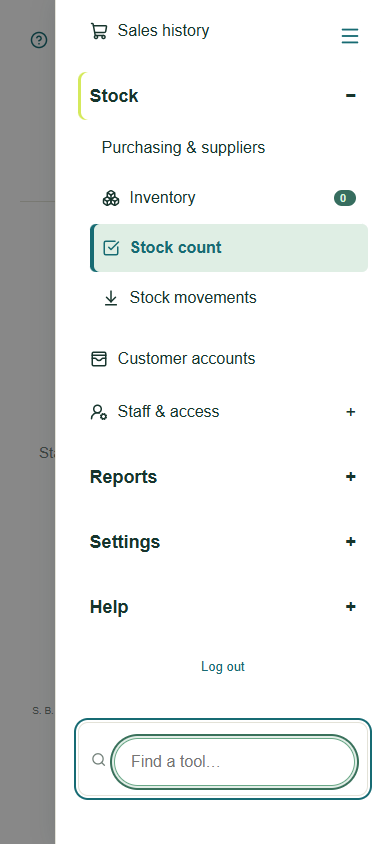
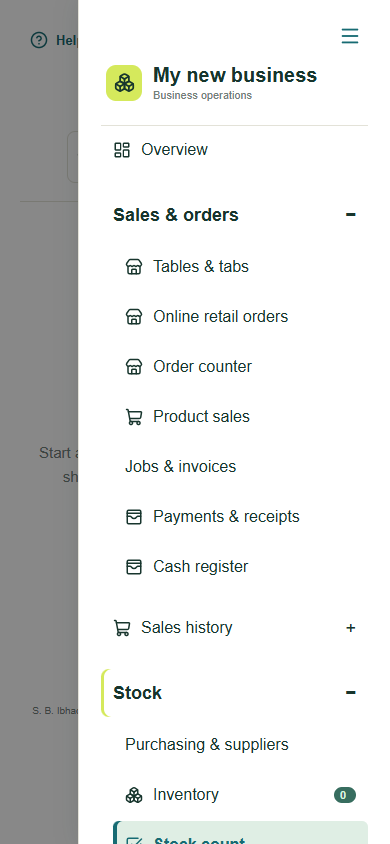
Refactor 3, Mobile navbar behavior corrected

diff --git a/src/main.tsx b/src/main.tsx
@@ -4,6 +4,7 @@ import { AppIntroduction } from './AppIntroduction'
 import { ListSort, type ListOrder } from './ListSort'
 import { NavigationGroup } from './NavigationGroup'
 import { ToolSearch } from './ToolSearch'
+import { SyncStatusIndicator, syncErrorMessage } from './SyncStatusIndicator'
 import { ReadingControls } from './ReadingControls'
 import { ReportCharts, type ReportChartData } from './ReportCharts'
 import { BrandAppearance } from './BrandAppearance'
@@ -230,7 +231,7 @@ type SaleRecord = { id: string; total: number; paymentMethod: string; paymentRef
 type SaleItemVoid = { id: string; orderId: string; productId: string; productName: string; quantity: number; unitPrice: number; reason: string; staffId: string; staffName: string; createdAt: string }
 
 type Movement = { id: string; productName: string; sku: string; quantity: number; reason: string; createdAt: string }
-type SyncStatus = { configured: boolean; pending: number; conflicts?: number; lastError: string; existingBusiness?: boolean }
+type SyncStatus = { configured: boolean; pending: number; pendingSettings?: number; conflicts?: number; lastError: string; existingBusiness?: boolean }
 type StaffUser = { id: string; name: string; email: string; username?: string; role: 'owner' | 'admin' | 'cashier'; permissions?:Record<string,boolean>|null; operationalAccess?: boolean; createdAt: string }
 type Reports = { charts?: ReportChartData; costWarnings?: { incomplete: boolean; zeroCostSaleLines: number; missingRecipes: string[]; uncostedIngredients: number; uncostedMaterials?: number }; reportingTimeZone?: string; daily: { total: number; count: number }; weekly: { total: number; count: number }; monthly: { total: number; count: number }; inventory: { value: number; products: number; lowStock: number }; profit: { revenue: number; cost: number; expenses: number; amount: number } }
 type Expense = { id: string; category: string; description: string; amount: number; incurredAt: string; staffId?: string; staffName?: string }
@@ -328,14 +329,6 @@ function App() {
   }, [])
   const {open:mobileMenuOpen,setOpen:setMobileMenuOpen,menu:mobileMenuRef,toggle:mobileMenuToggleRef} = usePortalMenu(true)
   useEffect(()=>{const media=window.matchMedia('(min-width:1024px)');const update=()=>{setDesktopLayout(media.matches);if(media.matches)setMobileMenuOpen(false)};media.addEventListener('change',update);return()=>media.removeEventListener('change',update)},[])
-  useEffect(() => {
-    if (!mobileMenuOpen) return
-    const closeOutside = (event: PointerEvent) => {
-      if (event.target instanceof Node && !mobileMenuRef.current?.contains(event.target) && !mobileMenuToggleRef.current?.contains(event.target)) setMobileMenuOpen(false)
-    }
-    document.addEventListener('pointerdown', closeOutside, true)
-    return () => document.removeEventListener('pointerdown', closeOutside, true)
-  }, [mobileMenuOpen])
   const [deviceSetupKind, setDeviceSetupKind] = useState<DeviceKind | undefined>()
   const [settingsTab, setSettingsTab] = useState<'business' | 'shop' | 'sales' | 'receipts' | 'devices' | 'food' | 'restaurant'>('business')
   const [detailsProduct, setDetailsProduct] = useState<Product | null>(null)
@@ -868,7 +861,7 @@ function App() {
       const productsResponse = await fetch('/api/products', { headers: authHeaders })
       if (productsResponse.ok) setProducts((await productsResponse.json()).products)
     } catch (error) {
-      setSyncFeedback(`Sync failed: ${error instanceof Error ? error.message : 'Could not reach the cloud.'} Check the queued count and retry.`)
+      setSyncFeedback(syncErrorMessage(error instanceof Error ? error.message : 'Could not reach cloud sync. Changes remain saved on this device.'))
     } finally { setSyncing(false) }
   }
   async function pullLatest() {
@@ -1937,7 +1930,7 @@ function App() {
     {(isNativeMobile() || isBrowserPwa()) && <div className={refreshingView ? 'mobile-pull-refresh refreshing' : 'mobile-pull-refresh'} style={{ transform: `translate(-50%, ${refreshingView ? 8 : mobilePullDistance - 56}px)` }}><RefreshCw size={17} className={refreshingView ? 'spin' : ''} /><span>{refreshingView ? 'Refreshing…' : mobilePullDistance >= 64 ? 'Release to refresh' : 'Pull to refresh'}</span></div>}
     <button ref={mobileMenuToggleRef} className="mobile-nav-toggle" type="button" aria-controls="business-navigation" aria-label={mobileMenuOpen ? 'Close navigation menu' : 'Open navigation menu'} aria-expanded={mobileMenuOpen} onClick={() => setMobileMenuOpen(open => !open)}><Menu size={22} /></button>
     {mobileMenuOpen && <button className="mobile-nav-backdrop" type="button" aria-label="Close navigation menu" onClick={() => setMobileMenuOpen(false)} />}
-    <aside ref={mobileMenuRef} id="business-navigation" inert={!mobileMenuOpen&&!desktopLayout} role={mobileMenuOpen&&!desktopLayout?'dialog':undefined} aria-modal={mobileMenuOpen&&!desktopLayout?true:undefined} aria-label="Business navigation" className={`sidebar${mobileMenuOpen ? ' mobile-menu-open' : ''}`}>
+    <aside ref={mobileMenuRef} tabIndex={-1} id="business-navigation" inert={!mobileMenuOpen&&!desktopLayout} role={mobileMenuOpen&&!desktopLayout?'dialog':undefined} aria-modal={mobileMenuOpen&&!desktopLayout?true:undefined} aria-label="Business navigation" className={`sidebar${mobileMenuOpen ? ' mobile-menu-open' : ''}`}>
       <div className="brand"><div className="brand-mark">{logoData ? <img src={logoData} alt="" className="brand-logo" /> : <Boxes size={21} />}</div><div><strong>{appName}</strong><span>Business operations</span></div></div>
       <ToolSearch tools={[{label:'Overview',screen:'Overview'}, ...(workspace.productSales?[{label:'Product sales',screen:'POS'}]:[]), ...(workspace.oil?[{label:'Oil sales',screen:'Oil'}]:[]), ...(workspace.payments?[{label:'Payments & receipts',screen:'Payments'}]:[]), ...(workspace.fastFood?[{label:'Order counter',screen:'Counter'}]:[]), ...(workspace.restaurant?[{label:'Tables & tabs',screen:'Restaurant'}]:[]), ...(workspace.stock?[{label:'Inventory',screen:'Inventory'},{label:'Stock count',screen:'Stocktake'},{label:'Stock movements',screen:'Movements'},{label:'Online retail orders',screen:'RetailOrders'}]:[]), {label:'Customer accounts',screen:'Wallet'},{label:'Staff access permissions',screen:'Team'},{label:'Staff activity',screen:'Activity'},{label:'Sales and receipts',screen:'Sales'},{label:'Reports and charts',screen:'Reports'},{label:'Business settings',screen:'Settings'},{label:'Subscription',screen:'Subscription'},{label:'How to use the app',screen:'Guide'}].filter(tool=>screenAllowedForUser(tool.screen,user)).map(tool=>({label:tool.label,open:()=>{setActive(tool.screen);setMobileMenuOpen(false)}}))}/><nav onClick={(event) => { const item = (event.target as HTMLElement).closest('a,button'); if (item && !item.hasAttribute('aria-expanded')) setMobileMenuOpen(false) }}>
         {canManageOperations && screenAllowedForUser('Overview',user) && <button className={active === 'Overview' ? 'nav-item active' : 'nav-item'} aria-current={active === 'Overview' ? 'page' : undefined} onClick={() => setActive('Overview')}><LayoutDashboard size={18} />Overview</button>}<NavigationGroup title="Sales & orders" current={['POS','Oil','Payments','Counter','Restaurant','RetailOrders','Register'].includes(active)}>        {workspace.restaurant && screenAllowedForUser('Restaurant',user) && <button className={active === 'Restaurant' ? 'nav-item active' : 'nav-item'} aria-current={active === 'Restaurant' ? 'page' : undefined} onClick={() => setActive('Restaurant')}><Store size={18} />Tables &amp; tabs</button>}
@@ -1951,10 +1944,10 @@ function App() {
         {workspace.stock && canManageOperations && screenAllowedForUser('Movements',user) && <button className={active === 'Movements' ? 'nav-item active' : 'nav-item'} aria-current={active === 'Movements' ? 'page' : undefined} onClick={() => setActive('Movements')}><ArrowDownToLine size={18} />Stock movements</button>}</NavigationGroup>        {canManageOperations && screenAllowedForUser('Wallet',user) && <button className={active === 'Wallet' ? 'nav-item active' : 'nav-item'} aria-current={active === 'Wallet' ? 'page' : undefined} onClick={() => setActive('Wallet')}><WalletCards size={18} />Customer accounts</button>}{user.role === 'owner' && <div className="sidebar-nav-group"><button className={active === 'Team' ? 'nav-item active' : 'nav-item'} aria-current={active === 'Team' ? 'page' : undefined} aria-expanded={expandedSidebarGroup === 'Team'} onClick={() => { setExpandedSidebarGroup(group => group === 'Team' ? null : 'Team') }}><UserRoundCog size={18} />Staff & access <span className="nav-disclosure" aria-hidden="true">{expandedSidebarGroup === 'Team' ? '−' : '+'}</span></button>{expandedSidebarGroup === 'Team' && <div className="sidebar-subnav"><a href="#team-cashier-activity" onClick={event => { event.preventDefault(); navigateToSection('Team', 'team-cashier-activity') }}>Cashier activity</a><a href="#team-members" onClick={event => { event.preventDefault(); navigateToSection('Team', 'team-members') }}>Team members</a><a href="#team-members" onClick={event=>{event.preventDefault();navigateToSection('Team','team-members')}}>Access permissions</a><a href="#team-add-staff" onClick={event => { event.preventDefault(); navigateToSection('Team', 'team-add-staff') }}>Add staff</a>{staff.some(member => member.role === 'cashier' || member.role === 'admin') && <a href="#team-password-recovery" onClick={event => { event.preventDefault(); navigateToSection('Team', 'team-password-recovery') }}>Staff passwords</a>}</div>}</div>}<NavigationGroup title="Reports" current={['Reports','Owner','Activity'].includes(active)}>        {!isBrowserPwa() && screenAllowedForUser('Owner',user) && <button className={active === 'Owner' ? 'nav-item active' : 'nav-item'} aria-current={active === 'Owner' ? 'page' : undefined} onClick={() => setActive('Owner')}><LayoutDashboard size={18} />Business performance</button>}
         {screenAllowedForUser('Reports',user) && <button className={active === 'Reports' ? 'nav-item active' : 'nav-item'} aria-current={active === 'Reports' ? 'page' : undefined} onClick={() => setActive('Reports')}><BarChart3 size={18} />Reports</button>}
         {screenAllowedForUser('Activity',user) && <button className={active === 'Activity' ? 'nav-item active' : 'nav-item'} aria-current={active === 'Activity' ? 'page' : undefined} onClick={() => setActive('Activity')}><UserRoundCog size={18} />Staff activity</button>}</NavigationGroup><NavigationGroup title="Settings" current={['Settings','Subscription','Sync','Display','Account','Device'].includes(active)}>        {screenAllowedForUser('Settings',user) && <button className={active === 'Settings' ? 'nav-item active' : 'nav-item'} aria-current={active === 'Settings' ? 'page' : undefined} onClick={() => {setSettingsTab(user.role==='owner'?'business':'devices');setActive('Settings')}}><UserRoundCog size={18} />Business settings</button>}{user.role==='owner'&&<><button className="nav-item" onClick={()=>{setSections(current=>({...current,Settings:'appearance'}));setSettingsTab('business');setActive('Settings')}}>Brand colours &amp; logo</button><button className="nav-item" onClick={()=>{setSettingsTab('shop');setActive('Settings')}}>Workspaces &amp; timezone</button></>}{screenAllowedForUser('Device',user)&&<button className="nav-item" onClick={()=>{setSettingsTab('devices');setActive('Settings')}}>Printers &amp; devices</button>}        {user.role === 'owner' && <button className={active === 'Subscription' ? 'nav-item active' : 'nav-item'} aria-current={active === 'Subscription' ? 'page' : undefined} onClick={() => setActive('Subscription')}><WalletCards size={18} />Subscription</button>}        {screenAllowedForUser('Sync',user) && <button className={active === 'Sync' ? 'nav-item active' : 'nav-item'} aria-current={active === 'Sync' ? 'page' : undefined} onClick={() => setActive('Sync')}><RefreshCw size={18} />Sync issues {syncConflicts.length > 0 && <b>{syncConflicts.length}</b>}</button>}        {(workspace.productSales || workspace.oil) && !isBrowserPwa() && !isNativeMobile() && screenAllowedForUser('Display',user) && <button className={active === 'Display' ? 'nav-item active' : 'nav-item'} aria-current={active === 'Display' ? 'page' : undefined} onClick={() => setActive('Display')}><Store size={18} />Customer display</button>}        {user.role === 'owner' && <button className={active === 'Account' ? 'nav-item active' : 'nav-item'} aria-current={active === 'Account' ? 'page' : undefined} onClick={() => setActive('Account')}><Trash2 size={18} />Close business account</button>}</NavigationGroup><NavigationGroup title="Help" current={active==='Guide'}>        <button className={active==='Guide'?'nav-item active':'nav-item'} aria-current={active === 'Guide' ? 'page' : undefined} onClick={()=>setActive('Guide')}><BookOpen size={18}/>How to use the app</button>        <a className="nav-item" href="https://stockroom.globalcreest.com/downloads" target="_blank" rel="noreferrer"><Download size={18} />Download / install Stockroom</a></NavigationGroup></nav>
-      <div className="sidebar-foot pwa-sync-controls"><div className={online && syncStatus.configured ? 'sync-status sync-ready' : 'sync-status offline'}>{online && syncStatus.configured ? <Wifi size={16} /> : <CloudOff size={16} />}<span>{online && syncStatus.configured ? `Cloud sync ready${syncStatus.pending ? ` · ${syncStatus.pending} queued` : ''}` : online ? 'Cloud sync not configured' : 'Offline · saved locally'}</span></div><button className="sync-button" onClick={syncNow} disabled={!online || !syncStatus.configured || syncing} title="Upload local changes and download business updates"><RefreshCw size={14} className={syncing ? 'spin' : ''} />{syncing ? 'Syncing…' : 'Sync now'}</button><p className="sync-feedback" role="status" aria-live="polite">{syncFeedback}</p><small>{syncStatus.lastError || (syncConflicts.length ? `${syncConflicts.length} change${syncConflicts.length === 1 ? '' : 's'} need review.` : online ? 'Sales are always saved locally first.' : 'Changes will sync when internet returns.')}</small></div>
+      <div className="sidebar-foot pwa-sync-controls"><SyncStatusIndicator online={online} status={syncStatus}/><button className="sync-button" onClick={syncNow} disabled={!online || !syncStatus.configured || syncing} title="Upload local changes and download business updates"><RefreshCw size={14} className={syncing ? 'spin' : ''} />{syncing ? 'Syncing…' : 'Sync now'}</button>{syncFeedback && <p className="sync-feedback" role="status" aria-live="polite">{syncFeedback}</p>}{(syncStatus.lastError || syncConflicts.length > 0) && <small>{syncStatus.lastError ? syncErrorMessage(syncStatus.lastError) : `${syncConflicts.length} changes need review.`}</small>}</div>
     <AsyncButton busyLabel="Signing out..." className="text-button logout-button" onClick={logout}>Log out</AsyncButton></aside>
     {isBrowserPwa() && <div className="mobile-pwa-sync"><button className="sync-button" onClick={syncNow} disabled={!online || !syncStatus.configured || syncing} title="Upload local changes and download business updates"><RefreshCw size={14} className={syncing ? 'spin' : ''} />{syncing ? 'Syncing…' : 'Sync now'}</button>{syncFeedback && <p className="mobile-sync-feedback" role="status" aria-live="polite">{syncFeedback}</p>}</div>}
-    <main className={`main-content workspace-accent-${active}${productWorkspaceActive ? ' pos-workspace' : ''}`}>
+    <main inert={mobileMenuOpen&&!desktopLayout} className={`main-content workspace-accent-${active}${productWorkspaceActive ? ' pos-workspace' : ''}`}>
       <header className="topbar"><div><p className="eyebrow">{user.name} · {user.role}</p><h1>{active === 'Guide' ? 'How to use Stockroom' : active === 'Inventory' ? shopProfile.inventoryLabel : active === 'Register' ? 'Cash register' : active === 'Oil' ? oilWorkspaceName : active === 'POS' ? salesWorkspaceName : active === 'RetailOrders' ? 'Online retail orders' : active === 'Counter' ? 'Order counter' : active === 'Restaurant' ? 'Tables & tabs' : active === 'Payments' ? 'Payments & receipts' : active === 'Wallet' ? 'Customer accounts' : active === 'Owner' ? 'Business performance' : active === 'Activity' ? 'Staff activity' : active === 'Overview' ? (user.role === 'owner' ? 'Business overview' : 'Operations overview') : active === 'Reports' ? 'Reports' : active === 'Team' ? 'Staff & access' : active === 'Subscription' ? 'Subscription' : active === 'Settings' ? 'Business settings' : active === 'Sales' ? 'Sales history' : active === 'Stocktake' ? 'Stock count' : active === 'Movements' ? 'Stock movements' : active === 'Display' ? 'Customer display' : active === 'Sync' ? 'Sync issues' : active === 'Device' ? 'Printers & devices' : active === 'Account' ? 'Close your account' : 'Stockroom'}</h1></div><div className="top-actions"><label className="branch-switcher"><Store size={16} /><span className="sr-only">Active branch</span><select aria-label="Active branch" disabled={Boolean(branchError)||!branches.length} value={activeBranchId} onChange={event => setActiveBranchId(event.target.value)}>{!branches.length&&<option value={activeBranchId}>{branchError?'Branches unavailable':'Loading branches...'}</option>}{branches.filter(branch => branch.isActive !== false).map(branch => <option key={branch.id} value={branch.id}>{branch.name}</option>)}</select></label><NotificationCenter apiUrl={subscriptionApiUrl} token={cloudAccessToken} onToken={(nextToken, refreshToken) => { setCloudAccessToken(nextToken); localStorage.setItem('stockroom-cloud-access-token', nextToken); localStorage.setItem('stockroom-cloud-refresh-token', refreshToken) }} allowPush={isBrowserPwa()} /><button type="button" className="icon-button" title="Back" onClick={goBackInApp} disabled={active === 'Overview'} aria-label="Go back"><ArrowLeft size={18} /></button><PageOptions onRefresh={refreshLocalView} busy={refreshingView || syncing} refreshing={refreshingView} /><span className="avatar" aria-hidden="true">{user.name.slice(0, 2).toUpperCase()}</span></div></header>
       {branchError&&<div role="alert" className="panel"><p>{branchError}</p><button type="button" className="filter-button" onClick={()=>setBranchRetry(value=>value+1)}>Retry loading branches</button></div>}
 

diff --git a/src/lib/mobileApi.ts b/src/lib/mobileApi.ts
@@ -330,7 +330,8 @@ async function localSyncStatus() {
   const config = await getMobileSyncConfiguration()
   const db = await openMobileDatabase()
   const pending = await db.query('SELECT COUNT(*) AS count FROM sync_outbox WHERE synced_at IS NULL')
-  return { configured: Boolean(config), pending: Number(pending.values?.[0]?.count || 0), conflicts: Number((await db.query('SELECT COUNT(*) AS count FROM sync_conflicts WHERE resolved_at IS NULL')).values?.[0]?.count || 0), lastError: config ? '' : 'This phone has not been enrolled.' }
+  const settings = await db.query("SELECT COUNT(*) AS count FROM sync_outbox WHERE synced_at IS NULL AND entity_type = 'settings'")
+  return { configured: Boolean(config), pending: Number(pending.values?.[0]?.count || 0), pendingSettings: Number(settings.values?.[0]?.count || 0), conflicts: Number((await db.query('SELECT COUNT(*) AS count FROM sync_conflicts WHERE resolved_at IS NULL')).values?.[0]?.count || 0), lastError: config ? await setting('lastSyncError') : 'This phone has not been enrolled.' }
 }
 
 async function cloudRequest(path: string, init: RequestInit = {}) {
@@ -480,8 +481,11 @@ async function handle(path: string, init?: RequestInit): Promise<Response> {
     if (!await sessionUser()) return error('Authentication required.', 401)
     return json(await subscriptionStatus(new Headers(init?.headers).get('X-Subscription-Refresh') === 'true'))
   }
-  if (path === '/api/sync/pull' && method === 'POST') return json(await pullLatest())
-  if (path === '/api/sync/now' && method === 'POST') return json(await syncNow())
+  if (['/api/sync/pull','/api/sync/now'].includes(path) && method === 'POST') {
+    const status = path === '/api/sync/pull' ? await pullLatest() : await syncNow()
+    await setSetting('lastSyncError',status.lastError)
+    return json({ ...status, ...(await localSyncStatus()) })
+  }
   if (path === '/api/products' && method === 'GET') return json({ products: (await db.query('SELECT p.id, p.name, p.sku, p.barcode, p.category, COALESCE(i.stock, 0) AS stock, COALESCE(i.reorder_point, p.reorder_point) AS reorder, p.price, p.cost_price AS cost, p.unit, p.custom_values AS customValues, p.updated_at AS updated FROM products p LEFT JOIN branch_inventory i ON i.product_id = p.id AND i.branch_id = ? ORDER BY p.updated_at DESC', [branchId])).values || [] })
   if (path === '/api/products/export' && method === 'GET') {
     if (user.role !== 'owner') return error('Owner access required.', 403)

diff --git a/src/operational.css b/src/operational.css
@@ -17,7 +17,7 @@
   .app-shell .sidebar .nav-item.active { color:var(--brand-primary); background:var(--mint); }
   .app-shell .sidebar .navigation-parent { margin-top:12px; font-size:18px; }
   .app-shell .sidebar .sidebar-foot { margin-top:24px; border-color:var(--line); }
-  .app-shell .sidebar .tool-search { width:100%; margin:20px 0; }
+  .app-shell .sidebar .tool-search { width:100%; min-width:0; max-width:none; flex:none; order:0; margin:20px 0; }
   .app-shell .sidebar .logout-button { display:block; color:var(--brand-primary); padding:16px; margin:12px 0; }
   .app-shell .mobile-nav-toggle { display:flex; position:fixed; top:14px; right:18px; left:auto; z-index:120; width:44px; height:44px; align-items:center; justify-content:center; background:white; color:var(--brand-primary); border:0; box-shadow:none; }
   .app-shell .mobile-nav-backdrop { display:block; position:fixed; inset:0; z-index:100; background:#0007; border:0; }
@@ -58,11 +58,20 @@
   .intro-illustration { width:240px; height:240px; }
   .app-shell .app-copyright { margin-top:48px; text-align:center; }
 }
+@media screen and (max-width:1023px) {
+  .app-shell .sidebar { width:min(320px,80vw); overscroll-behavior:contain; touch-action:pan-y; }
+  .app-shell .sidebar .tool-search { display:none; }
+  .app-shell .sidebar nav { display:grid; overflow:visible; }
+  .app-shell .sidebar .pwa-sync-controls { display:block; }
+  .app-shell .mobile-pwa-sync { display:none; }
+  .app-shell .mobile-nav-backdrop { touch-action:none; }
+  .app-shell .sidebar.mobile-menu-open { padding-top:max(64px,env(safe-area-inset-top)); }
+}
 @media screen and (max-width:650px) {
   .app-shell .main-content { padding:88px 20px 88px; }
   .app-shell .topbar { margin-inline:0; padding:0 0 18px; }
   .app-shell .topbar h1 { font-size:26px; }
-  .app-shell .sidebar { width:min(360px,86vw); }
+  .app-shell .sidebar { width:min(320px,80vw); }
   .app-shell .panel { padding:12px 0; }
   .app-shell .top-actions .tool-search { order:0; width:auto; flex-basis:auto; }
   .empty-screen { min-height:48dvh; padding:32px 8px; }

diff --git a/src/lib/browserApi.ts b/src/lib/browserApi.ts
@@ -317,7 +317,8 @@ async function localSyncStatus() {
   const db = await openMobileDatabase()
   const pending = await db.query('SELECT COUNT(*) AS count FROM sync_outbox WHERE synced_at IS NULL')
   const conflicts = await db.query('SELECT COUNT(*) AS count FROM sync_conflicts WHERE resolved_at IS NULL')
-  return { configured: Boolean(config), pending: Number(pending.values?.[0]?.count || 0), conflicts: Number(conflicts.values?.[0]?.count || 0), lastError: config ? await setting('lastSyncError') : 'This browser has not been enrolled.' }
+  const settings = await db.query("SELECT COUNT(*) AS count FROM sync_outbox WHERE synced_at IS NULL AND entity_type = 'settings'")
+  return { configured: Boolean(config), pending: Number(pending.values?.[0]?.count || 0), pendingSettings: Number(settings.values?.[0]?.count || 0), conflicts: Number(conflicts.values?.[0]?.count || 0), lastError: config ? await setting('lastSyncError') : 'This browser has not been enrolled.' }
 }
 
 async function cloudRequest(path: string, init: RequestInit = {}) {
@@ -525,7 +526,7 @@ export async function handleBrowserApi(path: string, init?: RequestInit): Promis
     const status = path === '/api/sync/pull' ? await pullLatest() : await syncNow()
     await subscriptionStatus(true)
     await setSetting('lastSyncError', status.lastError)
-    return json(status)
+    return json({ ...status, ...(await localSyncStatus()) })
   }
   if (path === '/api/products' && method === 'GET') return json({ products: (await db.query('SELECT p.id, p.name, p.sku, p.barcode, p.category, COALESCE(i.stock, 0) AS stock, COALESCE(i.reorder_point, p.reorder_point) AS reorder, p.price, p.cost_price AS cost, p.unit, p.custom_values AS customValues, p.updated_at AS updated FROM products p LEFT JOIN branch_inventory i ON i.product_id = p.id AND i.branch_id = ? ORDER BY p.updated_at DESC', [branchId])).values || [] })
   if (path === '/api/products/export' && method === 'GET') {

diff --git a/src/lib/usePortalMenu.ts b/src/lib/usePortalMenu.ts
@@ -8,13 +8,15 @@ export function usePortalMenu(persistentDrawer = false) {
     if (!open) return
     const previous = document.body.style.overflow
     document.body.style.overflow = 'hidden'
-    menu.current?.querySelector<HTMLElement>('button, a[href], summary, input, select')?.focus()
+    const initialFocus = persistentDrawer ? menu.current : menu.current?.querySelector<HTMLElement>('button, a[href], summary')
+    initialFocus?.focus({ preventScroll: true })
     const close = () => { setOpen(false); toggle.current?.focus() }
     const key = (event: KeyboardEvent) => {
       if (event.key === 'Escape') { event.preventDefault(); close() }
       if (event.key !== 'Tab') return
       const items = [...(menu.current?.querySelectorAll<HTMLElement>('button:not(:disabled), a[href], summary, input:not(:disabled), select:not(:disabled)') || [])].filter(item => item.getClientRects().length)
       if (!items.length) return
+      if (document.activeElement === menu.current) { event.preventDefault(); (event.shiftKey ? items.at(-1) : items[0])?.focus(); return }
       if (event.shiftKey && document.activeElement === items[0]) { event.preventDefault(); items.at(-1)?.focus() }
       else if (!event.shiftKey && document.activeElement === items.at(-1)) { event.preventDefault(); items[0].focus() }
     }

diff --git a/src/SyncStatusIndicator.tsx b/src/SyncStatusIndicator.tsx
@@ -1,0 +1,16 @@
+import { CloudOff, Wifi } from 'lucide-react'
+
+export function syncErrorMessage(message: string) {
+  return /failed to fetch|fetch failed|networkerror|network request failed|load failed/i.test(message)
+    ? 'Could not reach cloud sync. Changes remain saved on this device.' : message
+}
+
+export function SyncStatusIndicator({ online, status }: { online:boolean; status:{configured:boolean;pending:number;pendingSettings?:number;lastError:string} }) {
+  const setup = status.pendingSettings || 0
+  const waiting = status.pending ? setup === status.pending
+    ? `${setup} setup change${setup === 1 ? '' : 's'} waiting`
+    : `${status.pending} change${status.pending === 1 ? '' : 's'} waiting${setup ? ` · ${setup} setup` : ''}` : ''
+  const ready = online && status.configured && !status.lastError
+  const label = !online ? 'Offline' : !status.configured ? 'Sync not configured' : status.lastError ? 'Sync unavailable' : status.pending ? 'Waiting to sync' : 'Up to date'
+  return <div className={ready ? 'sync-status sync-ready' : 'sync-status offline'}>{ready ? <Wifi size={16}/> : <CloudOff size={16}/>}<span>{label}{waiting && ` · ${waiting}`}</span></div>
+}

diff --git a/docs/refactor-comparison.md b/docs/refactor-comparison.md
@@ -48,7 +48,7 @@ The browser run also verifies saved setup choices through real local APIs, reloa
 The introduction/help browser check and product-form browser check also pass. The latter exercises actual bundled screenshot OCR, custom field editing, required-field validation, offline persistence, restart, and incoming profile sync.
 
 - Production TypeScript/Vite build passes. Vite still warns about a bundle over 500 kB; this is an existing performance concern, not a failed build.
-- All 291 Node tests pass. Coverage includes API permissions, sale idempotency, offline persistence/sync, stock pools, refunds, counter recipes, financial reports, and preserving business/device settings when saving a setup step.
+- All 292 Node tests pass. Coverage includes API permissions, sale idempotency, offline persistence/sync, stock pools, refunds, counter recipes, financial reports, preserving business/device settings when saving a setup step, and identifying setup-only sync queues before business activity.
 - The usability browser test covers fresh states, isolated tasks, successful supplier/customer creation, draft retention between Inventory tasks, real product checkout and receipt persistence, stock reports before sales, mobile drawer/desktop sidebar, Back/Forward/reload, real local sign-in, failed branch loading/retry, and registration-step value retention.
 - Three older browser scripts were also run against the original baseline. Purchasing timed out on its Pack conversions selector; supermarket checkout and service payments timed out locating Business settings. These baseline failures are recorded, not counted as successful workflow validation.
 - Registration-step checks use a mocked settings response and do not prove production cloud enrollment. Physical printers, native Android packaging, production payment integrations and live multi-device synchronization were not exercised by this browser run. Node tests cover their local rules, not real hardware or production services.

diff --git a/docs/fast-food-workspace.md b/docs/fast-food-workspace.md
@@ -14,6 +14,8 @@ Owner registration progresses through business details, account details and revi
 
 Desktop keeps a persistent sidebar and a workspace that uses the available width. Phones and smaller tablets use the Menu drawer. Operational screens use a white canvas; **Choose screen**, **Order screen** or **Restaurant screen** selects one task within that area. Inventory opens the product list, while supply records, new supply, suppliers, transfers, imports and stock costs have separate screens. Customer and staff creation, expenses and receipt tasks are also separate from their lists.
 
+The mobile drawer opens without focusing a text field. It has no tool-search box, scrolls independently, and blocks touches to the workspace until dismissed. Desktop keeps tool search. Sync controls are inside the mobile drawer rather than floating over business records. Waiting setup/settings changes are identified separately from business activity; a connection error does not mean a sale occurred or remove saved changes.
+
 A new business shows empty placeholders until records are created. Empty products, supplies, receipts, customers, stock counts, stock movements, sales reports, order queues and tables explain the action that will populate them. No sample transactions or inventory are created for these placeholders. Screenshots from an isolated fresh-business browser check are saved under [screenshots](screenshots/).
 
 Select **Help & support > Help for this screen** for contextual instructions. Routine instructions stay out of working screens; errors, payment confirmations and destructive-action warnings remain visible when needed. Close Help with **Close** or Escape.
